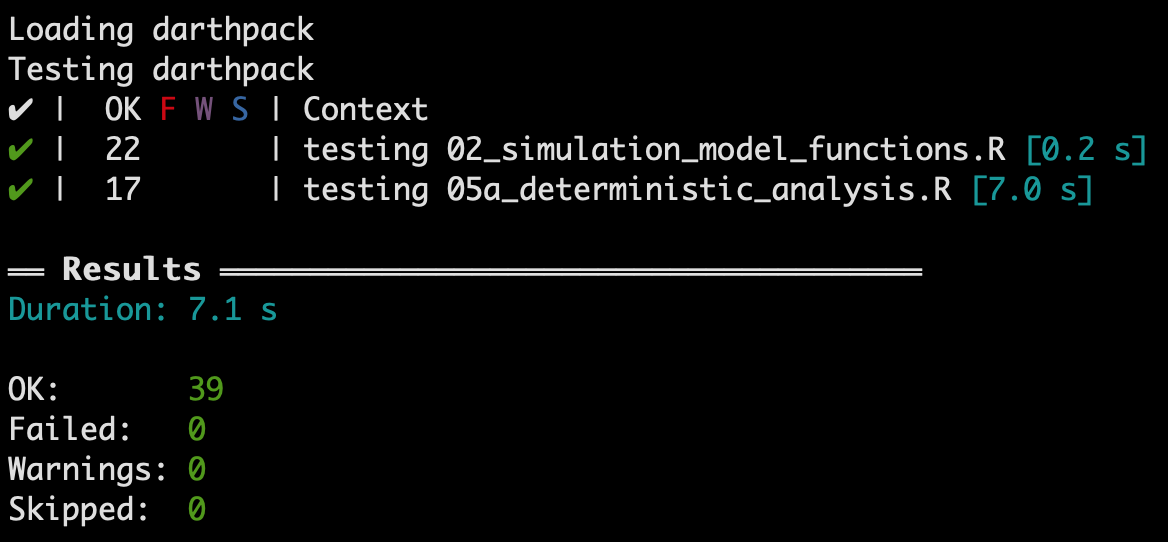
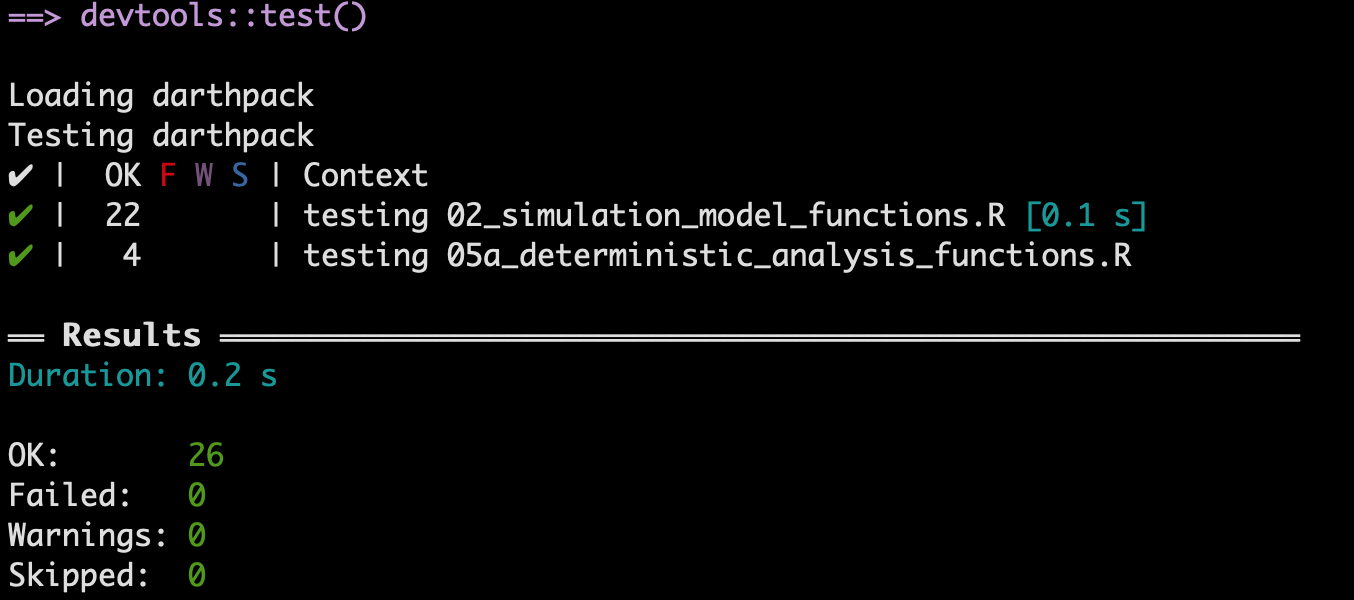
Upate testing and fixed some notes

diff --git a/docs/articles/zz-testing.html b/docs/articles/zz-testing.html
@@ -97,13 +97,11 @@
 
     
     
-<pre><code>#&gt; Warning: package 'dplyr' was built under R version 3.5.2
-#&gt; Warning: package 'testthat' was built under R version 3.5.2</code></pre>
-<p>In this section, we use <code>testthat</code> package to demonstrate unit testing. We first show the test structure used in the <code>testthat</code> package. We then demonstrate some unit tests for the functions in <code>02_simulation_model_functions.R</code> and processes in <code>05a_deterministic_analysis.R</code>.</p>
+<p>In this section, we use <code>testthat</code> package to demonstrate unit testing. We first show the test structure used in the <code>testthat</code> package. We then demonstrate some unit tests for the functions in <code>02_simulation_model_functions.R</code>.</p>
 <div id="test-structure" class="section level1">
 <h1 class="hasAnchor">
 <a href="#test-structure" class="anchor"></a>Test structure</h1>
-<p>A test file is a <code>.R</code> script and is normally stored separately from the source code. In the developement of the Sick-Sicker project, we create a <code>tests</code> folder for all the test files. In practice, a developer often creates a test file corresponding to a file of source code. Because the functionalities in a file of R script are usually related, the tests in the corresponding test file natually go together. A test file consists of three components from the lowest to the highest levels: <em>expectation</em>, <em>test</em> and <em>context</em>.</p>
+<p>A test file is a <code>.R</code> script and is normally stored separately from the source code. In the developement of the Sick-Sicker project, we create a <code>tests</code> folder for all the test files. In practice, a developer often creates a test file corresponding to a file of source code. Because the functionalities in an R script are usually related, the tests in the corresponding test file natually go together. A test file consists of three components from the lowest to the highest levels: <span style="color:blue">expectation</span>, <span style="color:blue">test</span> and <span style="color:blue">context</span>.</p>
 <ul>
 <li>In general, an expectation is to verify whether or not part of a function or a process works as expected.</li>
 <li>A test, consisting of a collection of expections, specifies which function or which part of a function is tested.</li>
@@ -120,22 +118,22 @@
 
 ## 1st test
 test_that("# of times MIB visited the Westworld", {
-  # Generate test data "a". This might be a results from a function or a process. 
+  # Generate test data. This might be a result from a function or a process. 
   a &lt;- number_of_time_from_MIB_memory()
-  # Assign an expected effect / value from the code that is tested. 
+  # An expected effect / value that might generated from the code that is under testing. 
   b1 &lt;- 1000
   expect_that(a, equals(b1)) # this is equivalent to expect_equal() in testthat
   
-  # Assign a different expected effect / value from the code that is tested. 
+  # Use a different expected effect / value from the code that is tested. 
   b2 &lt;- number_of_time_dolores_met_MIB_in_the_park()
   expect_true(a &gt;= b2) 
 })
 
 ## 2nd test
 test_that("# of hosts MIB killed", {
-  # Generate test data "a" 
+  # Generate test data
   a &lt;- record_in_MIB_memory()
-  # Value record from the Westworld management
+  # Get the expected value from a different function 
   b &lt;- record_store_in_Westworld()
   expect_equal(a, b)
 })
@@ -144,11 +142,11 @@ test_that("# of hosts MIB killed", {
 test_that("MIB's real name", {
   ...
 })</code></pre>
-<p>The text in the <code>context</code> function provides the name of the group of tests. By convention, one test file contains one context function, but the file can include more than one context function. Similarly, the text in the <code>test_that</code> function incidates which groups of expectations are being executed. After running the test files in the <code>R</code> console, the console would display whether the group of tests are passed or not. These texts in <code>context</code> and <code>test_that</code> would appear, allowing developers to quickly find where the tests go wrong.</p>
+<p>The text in the <code>context</code> function provides the name of the group of tests. By convention, one test file contains one <code>context()</code>, but the file can include more than one <code>context()</code>. Similarly, the text in the <code>test_that</code> function incidates which groups of expectations are being executed. After running the test files in the <code>R</code> console, the console would display whether the group of tests passed or failed. These texts in <code>context</code> and <code>test_that</code> would appear, allowing developers to quickly locate where the tests go wrong.</p>
 </div>
-<div id="testing-functions" class="section level1">
+<div id="example" class="section level1">
 <h1 class="hasAnchor">
-<a href="#testing-functions" class="anchor"></a>Testing functions</h1>
+<a href="#example" class="anchor"></a>Example</h1>
 <p>The file <code>02_simulation_model_functions.R</code> includes function <code>decision_model</code>, which is the core code of the Markov model in the Sick-Sicker study. We show some example tests for <code>decision_model</code> here. In the following code, we test whether invalid input data evokes certain error message.</p>
 <div class="sourceCode"><pre class="sourceCode r"><code class="sourceCode r"><span class="kw">context</span>(<span class="st">"testing 02_simulation_model_functions.R"</span>)
 
@@ -174,7 +172,7 @@ l_params_all &lt;-<span class="st"> </span><span class="kw"><a href="../referenc
   <span class="kw">expect_error</span>(<span class="kw"><a href="../reference/decision_model.html">decision_model</a></span>(l_params_all), 
                <span class="st">"vector of initial states </span><span class="ch">\\</span><span class="st">(v_s_init</span><span class="ch">\\</span><span class="st">) is not valid"</span>)
 })</code></pre></div>
-<p>To test invalid inputs for <code>decision_model</code>, we need to get input data passing into the function by loading the parameters. In the tests, we modify the input parameters that are expected to generate error message. Because we expect an error to occur, we use <code>expect_error</code> to assert whether <code><a href="../reference/decision_model.html">decision_model(l_params_all)</a></code> generates the same error message as expected. Because the expections are met by generating errors, one can run the code without raising any error.</p>
+<p>To test invalid inputs for <code>decision_model</code>, we need to pass the input data to the function by loading the parameters. In the tests, we use invalid value for an input parameter that guarantees an error message. Because we expect an error to occur, we use <code>expect_error</code> to assert whether <code><a href="../reference/decision_model.html">decision_model(l_params_all)</a></code> generates the same error message as expected. Because we create invalid inputs to meet these expectation of error message, running this block of code will not raise any error in the console.</p>
 <p>Here is another group of tests checking on the output of <code>decision_model</code>. We use more <code>expect_</code> functions to check different aspects of the outputs, including the number of components, the naming, the values, etc.</p>
 <div class="sourceCode"><pre class="sourceCode r"><code class="sourceCode r"><span class="kw">test_that</span>(<span class="st">"correct outputs"</span>, {
   <span class="co"># generate data</span>
@@ -197,76 +195,7 @@ l_params_all &lt;-<span class="st"> </span><span class="kw"><a href="../referenc
   <span class="kw">expect_true</span>(<span class="kw"><a href="https://www.rdocumentation.org/packages/base/topics/all">all</a></span>(<span class="kw"><a href="https://www.rdocumentation.org/packages/base/topics/Round">round</a></span>(<span class="kw"><a href="https://www.rdocumentation.org/packages/base/topics/colSums">rowSums</a></span>(output[[<span class="dv">2</span>]]) <span class="op">*</span><span class="st"> </span><span class="dv">100</span>) <span class="op">/</span><span class="st"> </span><span class="dv">100</span> <span class="op">==</span><span class="st"> </span><span class="dv">1</span>))
   <span class="kw">expect_true</span>(<span class="kw"><a href="https://www.rdocumentation.org/packages/base/topics/all">all</a></span>(output[[<span class="dv">2</span>]] <span class="op">&gt;=</span><span class="st"> </span><span class="dv">0</span>))
 })</code></pre></div>
-<p>In the test file, we also include tests for the other two functions <code>check_transition_probability</code> and <code>check_sum_of_transition_array</code>.</p>
-</div>
-<div id="testing-processes" class="section level1">
-<h1 class="hasAnchor">
-<a href="#testing-processes" class="anchor"></a>Testing processes</h1>
-<p>While it is not always necessary, we can conduct unit tests for a process. Here we show an example of testing some processes in an analysis file, <code>05a_deterministic_analysis.R</code>. In the analysis file, we compute an ICER table <code>df_cea_det</code>, one-way sensitivity analysis <code>owsa_nmb</code>, and two-way sensitivity analysis <code>twsa_nmb</code>. We can check whether we have the expected output in the table generated from the process. The testing file is named as <code>test_05_deterministic_analysis.R</code> and is stored in the <code>tests</code> folder.</p>
-<p>Here are the example tests for the results of one-way sensitivity analysis. We test the number of sample, the parameters included, the range of parameters, the strategy names, and the expected type of output data.</p>
-<div class="sourceCode"><pre class="sourceCode r"><code class="sourceCode r"><span class="kw"><a href="https://www.rdocumentation.org/packages/base/topics/library">library</a></span>(dampack) <span class="co"># the package required for calculating CEA outcomes. </span>
-<span class="co">#&gt; Loading required package: ggplot2</span>
-<span class="co">#&gt; Warning: package 'ggplot2' was built under R version 3.5.2</span>
-
-<span class="co"># generate input parameters</span>
-l_params_all &lt;-<span class="st"> </span><span class="kw"><a href="../reference/load_all_params.html">load_all_params</a></span>()
-v_names_str &lt;-<span class="st"> </span>l_params_all<span class="op">$</span>v_names_str
-n_str &lt;-<span class="st"> </span><span class="kw"><a href="https://www.rdocumentation.org/packages/base/topics/length">length</a></span>(v_names_str)
-l_params_basecase &lt;-<span class="st"> </span><span class="kw"><a href="../reference/update_param_list.html">update_param_list</a></span>(l_params_all, v_calib_post_map) 
-
-<span class="kw">test_that</span>(<span class="st">"check one-way sensitivity output"</span>, {
-  <span class="co"># generate input parameters in owsa_det()</span>
-  parms &lt;-<span class="st"> </span><span class="kw"><a href="https://www.rdocumentation.org/packages/base/topics/c">c</a></span>(<span class="st">"c_Trt"</span>, <span class="st">"p_HS1"</span>, <span class="st">"u_S1"</span>, <span class="st">"u_Trt"</span>)
-  ranges &lt;-<span class="st"> </span><span class="kw"><a href="https://www.rdocumentation.org/packages/base/topics/list">list</a></span>(<span class="st">"c_Trt"</span> =<span class="st"> </span><span class="kw"><a href="https://www.rdocumentation.org/packages/base/topics/c">c</a></span>(<span class="dv">6000</span>, <span class="dv">13000</span>),
-                 <span class="st">"p_HS1"</span> =<span class="st"> </span><span class="kw"><a href="https://www.rdocumentation.org/packages/base/topics/c">c</a></span>(<span class="fl">0.01</span>, <span class="fl">0.50</span>),
-                 <span class="st">"u_S1"</span>  =<span class="st"> </span><span class="kw"><a href="https://www.rdocumentation.org/packages/base/topics/c">c</a></span>(<span class="fl">0.75</span>, <span class="fl">0.95</span>),
-                 <span class="st">"u_Trt"</span> =<span class="st"> </span><span class="kw"><a href="https://www.rdocumentation.org/packages/base/topics/c">c</a></span>(<span class="fl">0.75</span>, <span class="fl">0.95</span>))
-  nsamps &lt;-<span class="st"> </span><span class="dv">100</span>
-  n_wtp &lt;-<span class="st"> </span><span class="dv">150000</span>
-  
-  <span class="co"># generate one-way sensitivity analysis results</span>
-  owsa_nmb &lt;-<span class="st"> </span><span class="kw"><a href="../reference/owsa_det.html">owsa_det</a></span>(<span class="dt">parms =</span> parms, <span class="co"># parameter names</span>
-                       <span class="dt">ranges =</span> ranges,
-                       <span class="dt">nsamps =</span> nsamps, <span class="co"># number of values  </span>
-                       <span class="dt">FUN =</span> calculate_ce_out, <span class="co"># Function to compute outputs </span>
-                       <span class="dt">params_basecase =</span> l_params_basecase, <span class="co"># List with base-case parameters</span>
-                       <span class="dt">outcome =</span> <span class="st">"NMB"</span>,      <span class="co"># Output to do the OWSA on</span>
-                       <span class="dt">strategies =</span> v_names_str, <span class="co"># Names of strategies</span>
-                       <span class="dt">n_wtp =</span> n_wtp       <span class="co"># Extra argument to pass to FUN</span>
-  )
-  
-  <span class="co"># check # of rows of owsa_nmb is the same as the expected number of total samples</span>
-  <span class="kw">expect_equal</span>(<span class="kw"><a href="https://www.rdocumentation.org/packages/base/topics/nrow">nrow</a></span>(owsa_nmb), <span class="kw"><a href="https://www.rdocumentation.org/packages/base/topics/length">length</a></span>(parms) <span class="op">*</span><span class="st"> </span><span class="kw"><a href="https://www.rdocumentation.org/packages/base/topics/length">length</a></span>(v_names_str) <span class="op">*</span><span class="st"> </span>nsamps)
-  
-  <span class="co"># check whether the output has all the parameters specified</span>
-  <span class="kw">expect_true</span>(<span class="kw"><a href="https://www.rdocumentation.org/packages/base/topics/all">all</a></span>(<span class="kw"><a href="https://www.rdocumentation.org/packages/base/topics/unique">unique</a></span>(<span class="kw"><a href="https://www.rdocumentation.org/packages/base/topics/character">as.character</a></span>(owsa_nmb<span class="op">$</span>parameter)) <span class="op">%in%</span><span class="st"> </span>parms))
-  <span class="kw">expect_equal</span>(<span class="kw"><a href="https://www.rdocumentation.org/packages/base/topics/length">length</a></span>(<span class="kw"><a href="https://www.rdocumentation.org/packages/base/topics/unique">unique</a></span>(<span class="kw"><a href="https://www.rdocumentation.org/packages/base/topics/character">as.character</a></span>(owsa_nmb<span class="op">$</span>parameter))), <span class="dv">4</span>)
-  
-  <span class="co"># check whether the ranges of the output parameters are the same as the range specified</span>
-  param_range &lt;-<span class="st"> </span>owsa_nmb <span class="op">%&gt;%</span><span class="st"> </span>
-<span class="st">    </span><span class="kw">select</span>(parameter, param_val) <span class="op">%&gt;%</span><span class="st"> </span>
-<span class="st">    </span><span class="kw">group_by</span>(parameter) <span class="op">%&gt;%</span><span class="st"> </span>
-<span class="st">    </span><span class="kw">summarize</span>(<span class="dt">range_min =</span> <span class="kw"><a href="https://www.rdocumentation.org/packages/base/topics/Extremes">min</a></span>(param_val, <span class="dt">na.rm =</span> T), 
-              <span class="dt">range_max =</span> <span class="kw"><a href="https://www.rdocumentation.org/packages/base/topics/Extremes">max</a></span>(param_val, <span class="dt">na.rm =</span> T)) <span class="op">%&gt;%</span>
-<span class="st">    </span><span class="kw">ungroup</span>() <span class="op">%&gt;%</span><span class="st"> </span>
-<span class="st">    </span><span class="kw">mutate</span>(<span class="dt">parameter =</span> <span class="kw"><a href="https://www.rdocumentation.org/packages/base/topics/character">as.character</a></span>(parameter))
-  
-  range_df &lt;-<span class="st"> </span><span class="kw"><a href="https://www.rdocumentation.org/packages/base/topics/do.call">do.call</a></span>(rbind, ranges)
-  <span class="kw"><a href="https://www.rdocumentation.org/packages/base/topics/colnames">colnames</a></span>(range_df) &lt;-<span class="st"> </span><span class="kw"><a href="https://www.rdocumentation.org/packages/base/topics/c">c</a></span>(<span class="st">"min"</span>, <span class="st">"max"</span>)
-  range_df &lt;-<span class="st"> </span><span class="kw"><a href="https://www.rdocumentation.org/packages/base/topics/as.data.frame">as.data.frame</a></span>(range_df)
-  range_df &lt;-<span class="st"> </span>range_df[<span class="kw"><a href="https://www.rdocumentation.org/packages/base/topics/match">match</a></span>(<span class="kw"><a href="https://www.rdocumentation.org/packages/base/topics/colnames">rownames</a></span>(range_df), param_range<span class="op">$</span>parameter), ]
-  
-  <span class="kw">expect_true</span>(<span class="kw"><a href="https://www.rdocumentation.org/packages/base/topics/all">all</a></span>(range_df<span class="op">$</span>max <span class="op">==</span><span class="st"> </span>param_range<span class="op">$</span>range_max))
-  <span class="kw">expect_true</span>(<span class="kw"><a href="https://www.rdocumentation.org/packages/base/topics/all">all</a></span>(range_df<span class="op">$</span>min <span class="op">==</span><span class="st"> </span>param_range<span class="op">$</span>range_min))
-  
-  <span class="co"># check owsa_nmb strategies</span>
-  stgy_set &lt;-<span class="st"> </span><span class="kw"><a href="https://www.rdocumentation.org/packages/base/topics/unique">unique</a></span>(<span class="kw"><a href="https://www.rdocumentation.org/packages/base/topics/character">as.character</a></span>(owsa_nmb<span class="op">$</span>strategy))
-  <span class="kw">expect_true</span>(<span class="kw"><a href="https://www.rdocumentation.org/packages/base/topics/all">all</a></span>(stgy_set <span class="op">%in%</span><span class="st"> </span>v_names_str))
-  
-  <span class="co"># check outcome_val</span>
-  <span class="kw">expect_true</span>(<span class="kw"><a href="https://www.rdocumentation.org/packages/base/topics/all">all</a></span>(<span class="kw"><a href="https://www.rdocumentation.org/packages/base/topics/numeric">is.numeric</a></span>(owsa_nmb<span class="op">$</span>outcome_val)))
-  <span class="kw">expect_false</span>(<span class="kw"><a href="https://www.rdocumentation.org/packages/base/topics/any">any</a></span>(<span class="kw"><a href="https://www.rdocumentation.org/packages/base/topics/NA">is.na</a></span>(owsa_nmb<span class="op">$</span>outcome_val)))
-})</code></pre></div>
+<p>In the test file, we also include tests for the other two functions <code>check_transition_probability</code> and <code>check_sum_of_transition_array</code>. In addition, we made another testing file <code>test_05a_deterministic_analysis_functions.R</code> for function <code>calculate_ce_out</code>.</p>
 </div>
 <div id="run-tests" class="section level1">
 <h1 class="hasAnchor">
@@ -275,12 +204,12 @@ l_params_basecase &lt;-<span class="st"> </span><span class="kw"><a href="../ref
 <div id="run-each-file-directly" class="section level2">
 <h2 class="hasAnchor">
 <a href="#run-each-file-directly" class="anchor"></a>Run each file directly</h2>
-<p>In this case, the library <code>testthat</code> should be attached before running a test file. If all tests in the file pass (that is all expectations are met), no error messages are raised in the console. However, sometimes the developer might loss count of the number of tests or loss track of the tests. This way is not informative in informing how many tests passed, and where the error occurs if tests failed.</p>
+<p>In this case, the library <code>testthat</code> should be attached before running a test file. If all tests in the file passed (that is, all expectations are met), no error messages are raised in the console. However, sometimes the developer might loss count of the number of tests or loss track of the type of tests. This method is not informative in informing how many tests passed, and where the error occurs if tests failed.</p>
 </div>
 <div id="run-tests-files-at-once-for-an-r-project-package" class="section level2">
 <h2 class="hasAnchor">
 <a href="#run-tests-files-at-once-for-an-r-project-package" class="anchor"></a>Run tests files at once for an R project / package</h2>
-<p>For an R package, the developer can run all the test files using shortcut <code>Ctrl/Cmd+Shift+T</code> or type R command <code><a href="https://www.rdocumentation.org/packages/testthat/topics/test_dir">testthat::test_dir("path/to/the/tests/folder")</a></code> in the console. The shortcut does not work for an R project. RStudio will then provide a summary of passed or failed tests.</p>
+<p>For an R package, the developer can run all the test files using shortcut <code>Ctrl/Cmd+Shift+T</code> or type R command <code><a href="https://www.rdocumentation.org/packages/testthat/topics/test_dir">testthat::test_dir("path/to/the/tests/folder")</a></code> in the console. The shortcut does not work for an R project. RStudio will then provide a summary of passed, failed, and skipped tests.</p>
 <div class="figure">
 <img src="../vignettes/test_summary.png" width="500">
 </div>
@@ -299,8 +228,7 @@ l_params_basecase &lt;-<span class="st"> </span><span class="kw"><a href="../ref
 <a href="#tocnav" class="anchor"></a>Contents</h2>
       <ul class="nav nav-pills nav-stacked">
 <li><a href="#test-structure">Test structure</a></li>
-      <li><a href="#testing-functions">Testing functions</a></li>
-      <li><a href="#testing-processes">Testing processes</a></li>
+      <li><a href="#example">Example</a></li>
       <li>
 <a href="#run-tests">Run tests</a><ul class="nav nav-pills nav-stacked">
 <li><a href="#run-each-file-directly">Run each file directly</a></li>

diff --git a/docs/reference/sample.prior.html b/docs/reference/sample.prior.html
@@ -134,7 +134,9 @@ distribution.</p>
     
     </div>
 
-    <pre class="usage"><span class='fu'>sample.prior</span>(<span class='no'>n_samp</span>)</pre>
+    <pre class="usage"><span class='fu'>sample.prior</span>(<span class='no'>n_samp</span>, <span class='kw'>v_param_names</span> <span class='kw'>=</span> <span class='fu'><a href='https://www.rdocumentation.org/packages/base/topics/c'>c</a></span>(<span class='st'>"p_S1S2"</span>, <span class='st'>"hr_S1"</span>, <span class='st'>"hr_S2"</span>),
+  <span class='kw'>v_lb</span> <span class='kw'>=</span> <span class='fu'><a href='https://www.rdocumentation.org/packages/base/topics/c'>c</a></span>(<span class='kw'>p_S1S2</span> <span class='kw'>=</span> <span class='fl'>0.01</span>, <span class='kw'>hr_S1</span> <span class='kw'>=</span> <span class='fl'>1</span>, <span class='kw'>hr_S2</span> <span class='kw'>=</span> <span class='fl'>5</span>), <span class='kw'>v_ub</span> <span class='kw'>=</span> <span class='fu'><a href='https://www.rdocumentation.org/packages/base/topics/c'>c</a></span>(<span class='kw'>p_S1S2</span> <span class='kw'>=</span> <span class='fl'>0.5</span>,
+  <span class='kw'>hr_S1</span> <span class='kw'>=</span> <span class='fl'>4.5</span>, <span class='kw'>hr_S2</span> <span class='kw'>=</span> <span class='fl'>15</span>))</pre>
     
     <h2 class="hasAnchor" id="arguments"><a class="anchor" href="#arguments"></a>Arguments</h2>
     <table class="ref-arguments">
@@ -142,6 +144,18 @@ distribution.</p>
     <tr>
       <th>n_samp</th>
       <td><p>Number of samples.</p></td>
+    </tr>
+    <tr>
+      <th>v_param_names</th>
+      <td><p>Vector with parameter names.</p></td>
+    </tr>
+    <tr>
+      <th>v_lb</th>
+      <td><p>Vector with upper bounds for each parameter.</p></td>
+    </tr>
+    <tr>
+      <th>v_ub</th>
+      <td><p>Vector with lower bounds for each parameter.</p></td>
     </tr>
     </table>
     
@@ -156,7 +170,9 @@ parameter set sampled from their prior distributions</p>
 <span class='no'>n_param</span>        <span class='kw'>&lt;-</span> <span class='fu'><a href='https://www.rdocumentation.org/packages/base/topics/length'>length</a></span>(<span class='no'>v_param_names</span>)
 <span class='no'>v_lb</span> <span class='kw'>&lt;-</span> <span class='fu'><a href='https://www.rdocumentation.org/packages/base/topics/c'>c</a></span>(<span class='kw'>p_S1S2</span> <span class='kw'>=</span> <span class='fl'>0.01</span>, <span class='kw'>hr_S1</span> <span class='kw'>=</span> <span class='fl'>1.0</span>, <span class='kw'>hr_S2</span> <span class='kw'>=</span> <span class='fl'>5</span>)  <span class='co'># lower bound</span>
 <span class='no'>v_ub</span> <span class='kw'>&lt;-</span> <span class='fu'><a href='https://www.rdocumentation.org/packages/base/topics/c'>c</a></span>(<span class='kw'>p_S1S2</span> <span class='kw'>=</span> <span class='fl'>0.50</span>, <span class='kw'>hr_S1</span> <span class='kw'>=</span> <span class='fl'>4.5</span>, <span class='kw'>hr_S2</span> <span class='kw'>=</span> <span class='fl'>15</span>) <span class='co'># upper bound</span>
-<span class='fu'>sample.prior</span>(<span class='fl'>2</span>)</div><div class='output co'>#&gt; <span class='error'>Error in lhs::randomLHS(n = n_samp, k = n_param): object 'n_param' not found</span></div></pre>
+<span class='fu'>sample.prior</span>(<span class='fl'>2</span>)</div><div class='output co'>#&gt;         p_S1S2    hr_S1     hr_S2
+#&gt; [1,] 0.2947103 1.256725  6.099564
+#&gt; [2,] 0.1243873 4.354759 10.867322</div></pre>
   </div>
   <div class="col-md-3 hidden-xs hidden-sm" id="sidebar">
     <h2>Contents</h2>

diff --git a/docs/articles/bb-inputs.html b/docs/articles/bb-inputs.html
@@ -249,7 +249,7 @@
 <span class="co">#&gt;   </span>
 <span class="co">#&gt;   return(v_r_mort_by_age)</span>
 <span class="co">#&gt; }</span>
-<span class="co">#&gt; &lt;bytecode: 0x7fb33c9c8a60&gt;</span>
+<span class="co">#&gt; &lt;bytecode: 0x7fdc04923c30&gt;</span>
 <span class="co">#&gt; &lt;environment: namespace:darthpack&gt;</span></code></pre></div>
 <p>Another function in the <em>01_model-inputs_functions.R</em> script, is the <code>load_all_parms</code> function. This function, which is actually using the <code>load_mort_data</code> function, loads all parameters for the decision model from multiple sources and creates a list that contains all parameters and their values.</p>
 <div class="sourceCode"><pre class="sourceCode r"><code class="sourceCode r"><span class="kw"><a href="https://www.rdocumentation.org/packages/base/topics/print">print.function</a></span>(load_all_params)  <span class="co"># print the function</span>
@@ -293,7 +293,7 @@
 <span class="co">#&gt;   l_params_all &lt;- c(l_params_all, </span>
 <span class="co">#&gt;                     df_params_init) # Add initial set of parameters</span>
 <span class="co">#&gt; }</span>
-<span class="co">#&gt; &lt;bytecode: 0x7fb33b827630&gt;</span>
+<span class="co">#&gt; &lt;bytecode: 0x7fdc049705f8&gt;</span>
 <span class="co">#&gt; &lt;environment: namespace:darthpack&gt;</span></code></pre></div>
 <p>The <code>load_all_params</code> function is informed by the arguments <code>file.init</code> and <code>file.mort</code>. The <code>file.init</code> argument is a string with the location and name of the file with initial set of parameters. The initial parameter values for our case-study are stored in the <em>01_init-params.csv</em> file located in the <em>data</em> directory. The <code>load_all_params</code> function read this .csv file into the function environment as a dataframe called, <code>df_params_init</code>.</p>
 <p>The <code>file.mort</code> argument is a string with the location and name of the file with mortality data. As described before, in our case-study this is the <em>01_all-cause-mortality.csv</em> file. Within the <code>load_all_parms</code> function, the <code>load_mort_data</code> function is used to create a vector with mortality rates from the .csv data.</p>

diff --git a/docs/reference/log_prior.html b/docs/reference/log_prior.html
@@ -155,7 +155,7 @@ set(s) based on their prior distributions.</p>
 <span class='no'>n_param</span>        <span class='kw'>&lt;-</span> <span class='fu'><a href='https://www.rdocumentation.org/packages/base/topics/length'>length</a></span>(<span class='no'>v_param_names</span>)
 <span class='no'>v_lb</span> <span class='kw'>&lt;-</span> <span class='fu'><a href='https://www.rdocumentation.org/packages/base/topics/c'>c</a></span>(<span class='kw'>p_S1S2</span> <span class='kw'>=</span> <span class='fl'>0.01</span>, <span class='kw'>hr_S1</span> <span class='kw'>=</span> <span class='fl'>1.0</span>, <span class='kw'>hr_S2</span> <span class='kw'>=</span> <span class='fl'>5</span>)  <span class='co'># lower bound</span>
 <span class='no'>v_ub</span> <span class='kw'>&lt;-</span> <span class='fu'><a href='https://www.rdocumentation.org/packages/base/topics/c'>c</a></span>(<span class='kw'>p_S1S2</span> <span class='kw'>=</span> <span class='fl'>0.50</span>, <span class='kw'>hr_S1</span> <span class='kw'>=</span> <span class='fl'>4.5</span>, <span class='kw'>hr_S2</span> <span class='kw'>=</span> <span class='fl'>15</span>) <span class='co'># upper bound</span>
-<span class='fu'>log_prior</span>(<span class='kw'>v_params</span> <span class='kw'>=</span> <span class='fu'><a href='sample.prior.html'>sample.prior</a></span>(<span class='kw'>n_samp</span> <span class='kw'>=</span> <span class='fl'>5</span>))</div><div class='output co'>#&gt; <span class='error'>Error in lhs::randomLHS(n = n_samp, k = n_param): object 'n_param' not found</span></div></pre>
+<span class='fu'>log_prior</span>(<span class='kw'>v_params</span> <span class='kw'>=</span> <span class='fu'><a href='sample.prior.html'>sample.prior</a></span>(<span class='kw'>n_samp</span> <span class='kw'>=</span> <span class='fl'>5</span>))</div><div class='output co'>#&gt; <span class='error'>Error in log_prior(v_params = sample.prior(n_samp = 5)): object 'v_param_names' not found</span></div></pre>
   </div>
   <div class="col-md-3 hidden-xs hidden-sm" id="sidebar">
     <h2>Contents</h2>

diff --git a/docs/reference/prior.html b/docs/reference/prior.html
@@ -153,7 +153,7 @@
 <span class='no'>n_param</span>        <span class='kw'>&lt;-</span> <span class='fu'><a href='https://www.rdocumentation.org/packages/base/topics/length'>length</a></span>(<span class='no'>v_param_names</span>)
 <span class='no'>v_lb</span> <span class='kw'>&lt;-</span> <span class='fu'><a href='https://www.rdocumentation.org/packages/base/topics/c'>c</a></span>(<span class='kw'>p_S1S2</span> <span class='kw'>=</span> <span class='fl'>0.01</span>, <span class='kw'>hr_S1</span> <span class='kw'>=</span> <span class='fl'>1.0</span>, <span class='kw'>hr_S2</span> <span class='kw'>=</span> <span class='fl'>5</span>)  <span class='co'># lower bound</span>
 <span class='no'>v_ub</span> <span class='kw'>&lt;-</span> <span class='fu'><a href='https://www.rdocumentation.org/packages/base/topics/c'>c</a></span>(<span class='kw'>p_S1S2</span> <span class='kw'>=</span> <span class='fl'>0.50</span>, <span class='kw'>hr_S1</span> <span class='kw'>=</span> <span class='fl'>4.5</span>, <span class='kw'>hr_S2</span> <span class='kw'>=</span> <span class='fl'>15</span>) <span class='co'># upper bound</span>
-<span class='fu'>prior</span>(<span class='kw'>v_params</span> <span class='kw'>=</span> <span class='fu'><a href='sample.prior.html'>sample.prior</a></span>(<span class='kw'>n_samp</span> <span class='kw'>=</span> <span class='fl'>5</span>))</div><div class='output co'>#&gt; <span class='error'>Error in lhs::randomLHS(n = n_samp, k = n_param): object 'n_param' not found</span></div></pre>
+<span class='fu'>prior</span>(<span class='kw'>v_params</span> <span class='kw'>=</span> <span class='fu'><a href='sample.prior.html'>sample.prior</a></span>(<span class='kw'>n_samp</span> <span class='kw'>=</span> <span class='fl'>5</span>))</div><div class='output co'>#&gt; <span class='error'>Error in log_prior(v_params): object 'v_param_names' not found</span></div></pre>
   </div>
   <div class="col-md-3 hidden-xs hidden-sm" id="sidebar">
     <h2>Contents</h2>

diff --git a/docs/reference/likelihood.html b/docs/reference/likelihood.html
@@ -157,7 +157,7 @@ parameter set(s).</p>
 <span class='no'>v_ub</span> <span class='kw'>&lt;-</span> <span class='fu'><a href='https://www.rdocumentation.org/packages/base/topics/c'>c</a></span>(<span class='kw'>p_S1S2</span> <span class='kw'>=</span> <span class='fl'>0.50</span>, <span class='kw'>hr_S1</span> <span class='kw'>=</span> <span class='fl'>4.5</span>, <span class='kw'>hr_S2</span> <span class='kw'>=</span> <span class='fl'>15</span>) <span class='co'># upper bound</span>
 <span class='no'>v_target_names</span> <span class='kw'>&lt;-</span> <span class='fu'><a href='https://www.rdocumentation.org/packages/base/topics/c'>c</a></span>(<span class='st'>"Surv"</span>, <span class='st'>"Prev"</span>, <span class='st'>"PropSick"</span>)
 <span class='no'>n_target</span>       <span class='kw'>&lt;-</span> <span class='fu'><a href='https://www.rdocumentation.org/packages/base/topics/length'>length</a></span>(<span class='no'>v_target_names</span>)
-<span class='fu'>likelihood</span>(<span class='kw'>v_params</span> <span class='kw'>=</span> <span class='fu'><a href='sample.prior.html'>sample.prior</a></span>(<span class='kw'>n_samp</span> <span class='kw'>=</span> <span class='fl'>2</span>))</div><div class='output co'>#&gt; <span class='error'>Error in lhs::randomLHS(n = n_samp, k = n_param): object 'n_param' not found</span></div></pre>
+<span class='fu'>likelihood</span>(<span class='kw'>v_params</span> <span class='kw'>=</span> <span class='fu'><a href='sample.prior.html'>sample.prior</a></span>(<span class='kw'>n_samp</span> <span class='kw'>=</span> <span class='fl'>2</span>))</div><div class='output co'>#&gt; <span class='error'>Error in matrix(0, nrow = n_samp, ncol = n_target): object 'n_target' not found</span></div></pre>
   </div>
   <div class="col-md-3 hidden-xs hidden-sm" id="sidebar">
     <h2>Contents</h2>

diff --git a/docs/reference/log_lik.html b/docs/reference/log_lik.html
@@ -157,7 +157,7 @@ parameter set(s).</p>
 <span class='no'>v_ub</span> <span class='kw'>&lt;-</span> <span class='fu'><a href='https://www.rdocumentation.org/packages/base/topics/c'>c</a></span>(<span class='kw'>p_S1S2</span> <span class='kw'>=</span> <span class='fl'>0.50</span>, <span class='kw'>hr_S1</span> <span class='kw'>=</span> <span class='fl'>4.5</span>, <span class='kw'>hr_S2</span> <span class='kw'>=</span> <span class='fl'>15</span>) <span class='co'># upper bound</span>
 <span class='no'>v_target_names</span> <span class='kw'>&lt;-</span> <span class='fu'><a href='https://www.rdocumentation.org/packages/base/topics/c'>c</a></span>(<span class='st'>"Surv"</span>, <span class='st'>"Prev"</span>, <span class='st'>"PropSick"</span>)
 <span class='no'>n_target</span>       <span class='kw'>&lt;-</span> <span class='fu'><a href='https://www.rdocumentation.org/packages/base/topics/length'>length</a></span>(<span class='no'>v_target_names</span>)
-<span class='fu'>log_lik</span>(<span class='kw'>v_params</span> <span class='kw'>=</span> <span class='fu'><a href='sample.prior.html'>sample.prior</a></span>(<span class='kw'>n_samp</span> <span class='kw'>=</span> <span class='fl'>2</span>))</div><div class='output co'>#&gt; <span class='error'>Error in lhs::randomLHS(n = n_samp, k = n_param): object 'n_param' not found</span></div></pre>
+<span class='fu'>log_lik</span>(<span class='kw'>v_params</span> <span class='kw'>=</span> <span class='fu'><a href='sample.prior.html'>sample.prior</a></span>(<span class='kw'>n_samp</span> <span class='kw'>=</span> <span class='fl'>2</span>))</div><div class='output co'>#&gt; <span class='error'>Error in matrix(0, nrow = n_samp, ncol = n_target): object 'n_target' not found</span></div></pre>
   </div>
   <div class="col-md-3 hidden-xs hidden-sm" id="sidebar">
     <h2>Contents</h2>

diff --git a/docs/reference/log_post.html b/docs/reference/log_post.html
@@ -159,7 +159,7 @@ prior distributions.</p>
 <span class='no'>v_ub</span> <span class='kw'>&lt;-</span> <span class='fu'><a href='https://www.rdocumentation.org/packages/base/topics/c'>c</a></span>(<span class='kw'>p_S1S2</span> <span class='kw'>=</span> <span class='fl'>0.50</span>, <span class='kw'>hr_S1</span> <span class='kw'>=</span> <span class='fl'>4.5</span>, <span class='kw'>hr_S2</span> <span class='kw'>=</span> <span class='fl'>15</span>) <span class='co'># upper bound</span>
 <span class='no'>v_target_names</span> <span class='kw'>&lt;-</span> <span class='fu'><a href='https://www.rdocumentation.org/packages/base/topics/c'>c</a></span>(<span class='st'>"Surv"</span>, <span class='st'>"Prev"</span>, <span class='st'>"PropSick"</span>)
 <span class='no'>n_target</span>       <span class='kw'>&lt;-</span> <span class='fu'><a href='https://www.rdocumentation.org/packages/base/topics/length'>length</a></span>(<span class='no'>v_target_names</span>)
-<span class='fu'>log_post</span>(<span class='kw'>v_params</span> <span class='kw'>=</span> <span class='fu'><a href='sample.prior.html'>sample.prior</a></span>(<span class='kw'>n_samp</span> <span class='kw'>=</span> <span class='fl'>5</span>))</div><div class='output co'>#&gt; <span class='error'>Error in lhs::randomLHS(n = n_samp, k = n_param): object 'n_param' not found</span></div></pre>
+<span class='fu'>log_post</span>(<span class='kw'>v_params</span> <span class='kw'>=</span> <span class='fu'><a href='sample.prior.html'>sample.prior</a></span>(<span class='kw'>n_samp</span> <span class='kw'>=</span> <span class='fl'>5</span>))</div><div class='output co'>#&gt; <span class='error'>Error in log_prior(v_params): object 'v_param_names' not found</span></div></pre>
   </div>
   <div class="col-md-3 hidden-xs hidden-sm" id="sidebar">
     <h2>Contents</h2>

diff --git a/docs/reference/posterior.html b/docs/reference/posterior.html
@@ -157,7 +157,7 @@ set(s).</p>
 <span class='no'>v_ub</span> <span class='kw'>&lt;-</span> <span class='fu'><a href='https://www.rdocumentation.org/packages/base/topics/c'>c</a></span>(<span class='kw'>p_S1S2</span> <span class='kw'>=</span> <span class='fl'>0.50</span>, <span class='kw'>hr_S1</span> <span class='kw'>=</span> <span class='fl'>4.5</span>, <span class='kw'>hr_S2</span> <span class='kw'>=</span> <span class='fl'>15</span>) <span class='co'># upper bound</span>
 <span class='no'>v_target_names</span> <span class='kw'>&lt;-</span> <span class='fu'><a href='https://www.rdocumentation.org/packages/base/topics/c'>c</a></span>(<span class='st'>"Surv"</span>, <span class='st'>"Prev"</span>, <span class='st'>"PropSick"</span>)
 <span class='no'>n_target</span>       <span class='kw'>&lt;-</span> <span class='fu'><a href='https://www.rdocumentation.org/packages/base/topics/length'>length</a></span>(<span class='no'>v_target_names</span>)
-<span class='fu'>posterior</span>(<span class='kw'>v_params</span> <span class='kw'>=</span> <span class='fu'><a href='sample.prior.html'>sample.prior</a></span>(<span class='kw'>n_samp</span> <span class='kw'>=</span> <span class='fl'>5</span>))</div><div class='output co'>#&gt; <span class='error'>Error in lhs::randomLHS(n = n_samp, k = n_param): object 'n_param' not found</span></div></pre>
+<span class='fu'>posterior</span>(<span class='kw'>v_params</span> <span class='kw'>=</span> <span class='fu'><a href='sample.prior.html'>sample.prior</a></span>(<span class='kw'>n_samp</span> <span class='kw'>=</span> <span class='fl'>5</span>))</div><div class='output co'>#&gt; <span class='error'>Error in log_prior(v_params): object 'v_param_names' not found</span></div></pre>
   </div>
   <div class="col-md-3 hidden-xs hidden-sm" id="sidebar">
     <h2>Contents</h2>

diff --git a/docs/index.html b/docs/index.html
@@ -138,7 +138,7 @@
 <li>Petros Pechlivanoglou <br><small class="roles"> Author </small> <a href="https://orcid.org/0000-0001-5090-7936" target="orcid.widget"><img src="https://members.orcid.org/sites/default/files/vector_iD_icon.svg" class="orcid" alt="ORCID" height="16"></a> </li>
 <li>Hawre Jalal <br><small class="roles"> Author </small> <a href="https://orcid.org/0000-0002-8224-6834" target="orcid.widget"><img src="https://members.orcid.org/sites/default/files/vector_iD_icon.svg" class="orcid" alt="ORCID" height="16"></a> </li>
 <li>Szu-Yu Kao <br><small class="roles"> Author </small> <a href="https://orcid.org/0000-0002-4987-3983" target="orcid.widget"><img src="https://members.orcid.org/sites/default/files/vector_iD_icon.svg" class="orcid" alt="ORCID" height="16"></a> </li>
-<li>Alan Yang <br><small class="roles"> Author </small>  </li>
+<li>Alan Yang <br><small class="roles"> Author </small> <a href="https://orcid.org/0000-0002-0344-6812" target="orcid.widget"><img src="https://members.orcid.org/sites/default/files/vector_iD_icon.svg" class="orcid" alt="ORCID" height="16"></a> </li>
 <li>Eva Enns <br><small class="roles"> Author </small> <a href="https://orcid.org/0000-0003-0693-7358" target="orcid.widget"><img src="https://members.orcid.org/sites/default/files/vector_iD_icon.svg" class="orcid" alt="ORCID" height="16"></a> </li>
 </ul>
 </div>

diff --git a/docs/articles/cc-model.html b/docs/articles/cc-model.html
@@ -173,7 +173,7 @@
 <span class="co">#&gt;   }</span>
 <span class="co">#&gt;   )</span>
 <span class="co">#&gt; }</span>
-<span class="co">#&gt; &lt;bytecode: 0x7fa9f2a457e8&gt;</span>
+<span class="co">#&gt; &lt;bytecode: 0x7fd02bcb1040&gt;</span>
 <span class="co">#&gt; &lt;environment: namespace:darthpack&gt;</span></code></pre></div>
 <p>The <code>decision_model</code> function is informed by the argument <code>l_params_all</code>. Via this argument we give the function a list with all parameters of the decision model. For the Sick-Sicker model, these parameters are stored in the list <code>l_params_all</code>, which we passed into the function as shown below.</p>
 <div class="sourceCode"><pre class="sourceCode r"><code class="sourceCode r">l_out_stm &lt;-<span class="st"> </span><span class="kw"><a href="../reference/decision_model.html">decision_model</a></span>(<span class="dt">l_params_all =</span> l_params_all) <span class="co"># run the function</span></code></pre></div>

diff --git a/docs/authors.html b/docs/authors.html
@@ -143,7 +143,7 @@
         </p>
       </li>
       <li>
-        <p><strong>Alan Yang</strong>. Author. 
+        <p><strong>Alan Yang</strong>. Author. <a href='https://orcid.org/0000-0002-0344-6812' target='orcid.widget'><img src='https://members.orcid.org/sites/default/files/vector_iD_icon.svg' class='orcid' alt='ORCID' height='16'></a>
         </p>
       </li>
       <li>
